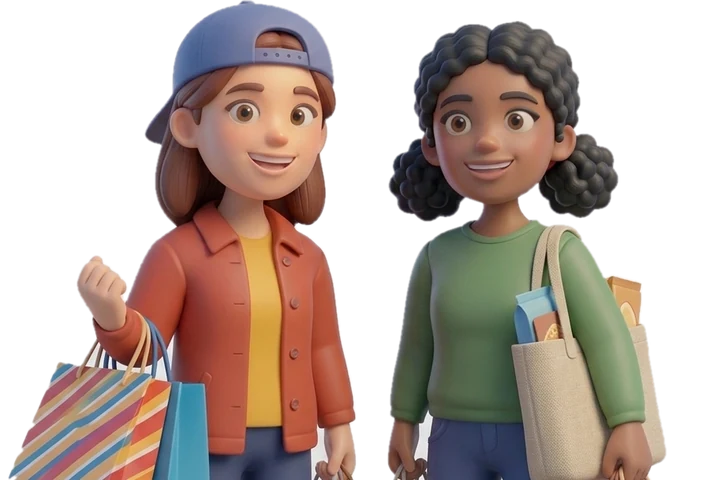
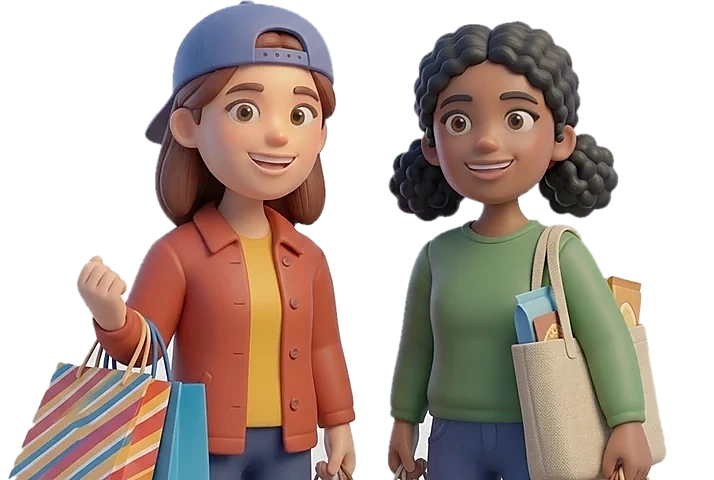
Hero art: new inne/okazja/rower/spotkanie, pool/club cleanup, sharpen trip/gallery/food, pastel club bg
Claude-Session: https://claude.ai/code/session_017XbPUHn37fqDv6KEidLMw8

diff --git a/public/index.html b/public/index.html
@@ -1704,12 +1704,12 @@ const SAFE=(()=>{try{if(/[?&]safe=0/.test(location.search))localStorage.setItem(
 const trusted=()=>{try{return JSON.parse(sget("trusted")||"[]").filter(id=>S.con.has(id)).slice(0,3)}catch{return[]}};
 const FRI='<svg viewBox="0 0 24 24" width="15" height="15" fill="currentColor"><circle cx="9" cy="8" r="3.6"/><path d="M2 20.500c0-4 3-6.500 7-6.500s7 2.500 7 6.500z"/><circle cx="17.500" cy="9" r="2.700" opacity=".7"/><path d="M17 14.300c3.200.3 5.200 2.300 5.200 5.700h-4c0-2.200-.4-4-1.200-5.700z" opacity=".7"/></svg>';
 const FR=id=>id&&typeof S!=="undefined"&&S.con&&S.con.has(id)&&id!==me()?`<i class="frd" title="${esc(t("frT"))}" aria-label="${esc(t("frT"))}">${FRI}</i>`:"";
-const HG={run:["#d7ecff,#eaf6ff","max-width:none!important;width:100%!important",5],scoot:["#ffe9b8,#ffd9c2","max-width:none!important;width:204px",46],walk:["#ffd9e0,#ffe9d0","max-width:none!important;width:100%!important",42],sport:["#ffd9b8,#ffecc2","max-width:none!important;width:100%!important",0],house:["#e1c9ff,#ffc9e6","max-width:none!important;width:418px",27],biz:["#cfe0ff,#e6eeff","max-width:none!important;width:100%!important",16],gaming:["#c8c3ff,#dfe8ff","margin-left:16px",89],coffee:["#f3d9b8,#f6e6cf","margin-left:16px",50],cinema:["#f5b8c6,#ffd9c9","",66],club:["#7c3aed","max-width:none!important;width:376px",21],food:["#ffd2a8,#ffe9b8","margin-left:6px;bottom:-85px!important;max-height:340px!important;max-width:min(400px,112%)!important",63],basket:["#ffcfa6,#ffe1c8","",42],fball:["#b9e8c8,#e6f3c5","",38],pool:["#b9e3f5,#d6f1f0","",53],pub:["#f3d9a0,#fbe9bf","",62],vball:["#c9e3ff,#ffe3b8","margin-left:78px;max-height:218px",92],gym:["#cfd8e8,#e4e1f2","",92],nye:["#b9c4f5,#ffe6a8","",10],xmas:["#bfe3c7,#ffd0cf","",18],trip:["#bfe3f0,#cdeedd","max-width:310px;max-height:205px;margin-left:12px;margin-bottom:-6px",41],gallery:["#ffd0c9,#d7e9d0","",42]};
+const HG={run:["#d7ecff,#eaf6ff","max-width:none!important;width:100%!important",5],scoot:["#ffe9b8,#ffd9c2","max-width:none!important;width:204px",46],walk:["#ffd9e0,#ffe9d0","max-width:none!important;width:100%!important",42],sport:["#ffd9b8,#ffecc2","max-width:none!important;width:100%!important",0],house:["#e1c9ff,#ffc9e6","max-width:none!important;width:418px",27],biz:["#cfe0ff,#e6eeff","max-width:none!important;width:100%!important",44],gaming:["#c8c3ff,#dfe8ff","margin-left:16px",89],coffee:["#f3d9b8,#f6e6cf","margin-left:16px",50],cinema:["#f5b8c6,#ffd9c9","",66],club:["#e2d1fa,#fbd2ea","max-width:none!important;width:388px",28],food:["#ffd2a8,#ffe9b8","margin-left:6px;bottom:-85px!important;max-height:340px!important;max-width:min(400px,112%)!important",63],basket:["#ffcfa6,#ffe1c8","",42],fball:["#b9e8c8,#e6f3c5","",38],pool:["#b9e3f5,#d6f1f0","",53],pub:["#f3d9a0,#fbe9bf","",62],vball:["#c9e3ff,#ffe3b8","margin-left:78px;max-height:218px",92],gym:["#cfd8e8,#e4e1f2","",92],nye:["#b9c4f5,#ffe6a8","",10],xmas:["#bfe3c7,#ffd0cf","",18],trip:["#bfe3f0,#cdeedd","max-width:310px;max-height:205px;margin-left:12px;margin-bottom:-6px",41],other:["#dfe3f0,#efe9f7","max-width:none!important;width:400px",25],occ:["#ffd6e8,#fff0c2","max-width:none!important;width:400px",25],bike:["#c9ecd3,#e3f4c8","max-width:none!important;width:248px",50],gallery:["#ffd0c9,#d7e9d0","",42]};
 const card=(d,P,link,role,hero)=>{const by=s=>P.filter(p=>p.status===s),nm=p=>esc(p.nickname)+FR(p.id)+(p.id===d.hostId?' <span class="stt">★</span>':"")+(p.status==="late"&&p.etaMin?` (${p.etaMin}m)`:"");
   const ln=(s,c)=>by(s).length?`<div class="ln">${avc("mini",avIdx(by(s)[0]))}<span><b class="pl ${c}">${sv(RI[s])}${by(s).length} ${STL(s)}</b> ${by(s).map(nm).join(", ")}</span></div>`:"";
   const [c1,c2]=thm(d),tg=role==="host"?t("roleHost")+(d.public?" 🌍":""):role==="inv"?(d.public?"🌍 "+t("pubTag"):t("roleInv")):role?t("roleMe",STL(role)):"";
   const hg=hero&&HG[d.category];
-  if(hg)return`<div class="drop dhero" style="--c1:${c1};--c2:${c2};margin-top:${Math.max(0,hg[2]+14)}px"><div class="hf" style="background:linear-gradient(135deg,${hg[0]})"><div class="hfc"><img src="/e/h-${d.category}.webp?v=1116c" alt="" style="${hg[1]}"></div></div><div class="hb"><div class="dh"><h2>${esc(clean(d.title))}${d.repeat?`<span class="rpi" title="${t("rep_"+d.repeat)}">🔁</span>`:""}</h2>${tg?`<span class="hrt">☆ ${tg}</span>`:""}</div><div class="hm"><div>${i14(CLK)}<span>${when(d.startsAt.toMillis())}</span></div><div>${i14(PN)}<span>${esc(plc(d))}</span></div></div><hr><span class="tm" data-t="${d.startsAt.toMillis()}" data-x="${d.expiresAt.toMillis()}"></span></div></div>`;
+  if(hg)return`<div class="drop dhero" style="--c1:${c1};--c2:${c2};margin-top:${Math.max(0,hg[2]+14)}px"><div class="hf" style="background:linear-gradient(135deg,${hg[0]})"><div class="hfc"><img src="/e/h-${d.category}.webp?v=1116d" alt="" style="${hg[1]}"></div></div><div class="hb"><div class="dh"><h2>${esc(clean(d.title))}${d.repeat?`<span class="rpi" title="${t("rep_"+d.repeat)}">🔁</span>`:""}</h2>${tg?`<span class="hrt">☆ ${tg}</span>`:""}</div><div class="hm"><div>${i14(CLK)}<span>${when(d.startsAt.toMillis())}</span></div><div>${i14(PN)}<span>${esc(plc(d))}</span></div></div><hr><span class="tm" data-t="${d.startsAt.toMillis()}" data-x="${d.expiresAt.toMillis()}"></span></div></div>`;
   return`<div class="drop" style="--c1:${c1};--c2:${c2}" ${link?`onclick="go('/d/${d.id}')"`:""}><i class="gr"></i>${role?`<div class="ct"><span class="rt">${role?sv(RI[role]):""}${tg}</span>${role==="host"?`<span class="cpw"><button class="cp cpq" aria-label="QR" onclick="event.stopPropagation();qrDrop('${d.id}')">${QRI}</button><button class="cp" onclick="event.stopPropagation();shareDrop('${d.id}')">${sv(SI.share)}${t("shareShort")}</button></span>`:""}</div>`:""}<div class="dh"><span class="di">${ic(d.category,"#fff")}</span><h2>${esc(clean(d.title))}${d.repeat?`<span class="rpi" title="${t("rep_"+d.repeat)}">🔁</span>`:""}</h2></div><div class="mt">${i14(CLK)} ${when(d.startsAt.toMillis())} &nbsp;${i14(PN)} ${esc(plc(d))}</div><hr>${ln("in","cg")}${ln("late","cy")}${ln("out","cr")}${P.length?"":`<div class="mt">${t("nobody")}</div>`}<span class="tm" data-t="${d.startsAt.toMillis()}" data-x="${d.expiresAt.toMillis()}"></span></div>`};
 
 /* ---------- KARTA DROPA NA LIŚCIE (wygląd „post”) ---------- */
